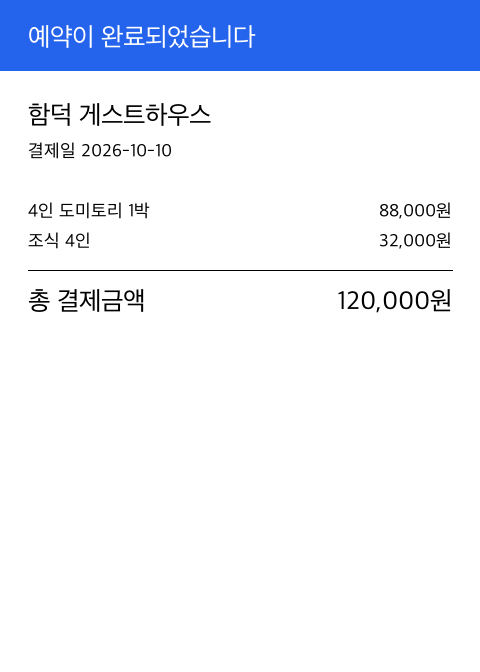
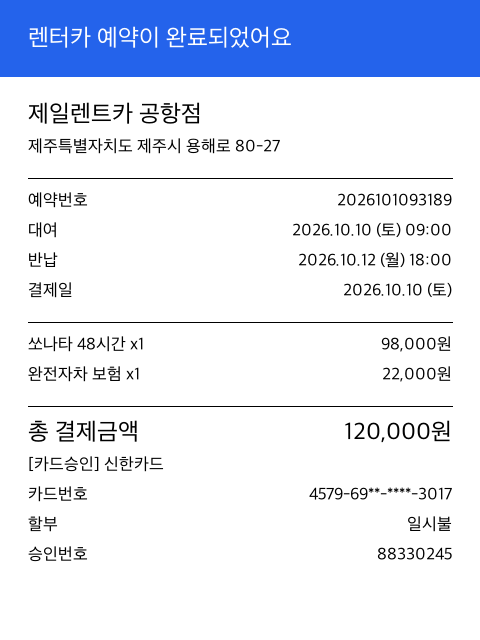
feat: 평가용 생성 영수증을 실제 제주 가게와 결제 시각으로 실제 영수증처럼 다시 만들기
- 2026-10-10~12 제주 2박 3일 동선에 맞춰 카카오 장소 검색으로 찾은 실제 상호·주소·전화번호를 쓴다.
  결제 내역(품목·금액·시각·카드·승인번호)은 지어낸 것이다.
- 영수증: POS 번호, 수량 열, 과세물품가액·부가세, 가린 카드번호, 승인번호, 날짜 표기 3가지.
- 예약 화면: 예약번호, 체크인·체크아웃(렌터카는 대여·반납), 결제일. 숙소 하나는 여행 전에 결제.
- 13곳 모두 카카오 주소 검색으로 좌표를 찾는 것을 확인했다.

diff --git a/eval/make_synthetic.py b/eval/make_synthetic.py
@@ -4,7 +4,9 @@
 """
 
 import argparse
+import hashlib
 import json
+from datetime import datetime, timedelta
 from pathlib import Path
 from typing import Literal
 
@@ -43,80 +45,179 @@ def expected_entry(spec: dict) -> dict:
     }
 
 
+# 줄 앞에 붙여 그리는 방식을 정한다. receipt_lines·booking_lines는 (왼쪽, 오른쪽) 글자 쌍을 돌려준다.
+CENTER = "\x00c"
+BIG = "\x00b"
+RULE = "\x00-"
+QTY = "\t"
+WEEKDAYS = "월화수목금토일"
+CARD_PREFIXES = ["5412", "4579", "9410", "3560"]
+
+
+def vat_split(total: int) -> tuple[int, int]:
+    """부가세 포함 금액을 공급가액과 부가세(10%)로 나눈다."""
+    supply = round(total / 1.1)
+    return supply, total - supply
+
+
+def _seed(spec: dict) -> int:
+    """같은 spec이면 늘 같은 카드번호·승인번호가 나오도록 id로 정한다."""
+    return int(hashlib.sha256(spec["id"].encode()).hexdigest(), 16)
+
+
+def masked_card(spec: dict) -> str:
+    """실제 영수증처럼 가운데를 가린 카드번호. 전체 번호는 만들지 않는다."""
+    seed = _seed(spec)
+    return f"{CARD_PREFIXES[seed % 4]}-{seed // 7 % 100:02d}**-****-{seed // 11 % 10000:04d}"
+
+
+def _approval(spec: dict) -> str:
+    return f"{_seed(spec) // 13 % 100_000_000:08d}"
+
+
+def _paid_text(spec: dict) -> str:
+    """영수증마다 날짜 표기가 다르다. 정답(paid_at)은 같다."""
+    when = datetime.fromisoformat(spec["paid_at"])
+    style = spec.get("time_style", "dash")
+    if style == "slash":
+        return when.strftime("%Y/%m/%d %H:%M:") + f"{_seed(spec) % 60:02d}"
+    if style == "short":
+        return when.strftime("%y.%m.%d") + f"({WEEKDAYS[when.weekday()]}) " + when.strftime("%H:%M")
+    return when.strftime("%Y-%m-%d %H:%M")
+
+
+def _dot_date(value: str) -> str:
+    day = datetime.fromisoformat(value)
+    return day.strftime("%Y.%m.%d") + f" ({WEEKDAYS[day.weekday()]})"
+
+
+def _item_rows(spec: dict) -> list[tuple[str, str]]:
+    """같은 품목은 한 줄로 묶어 수량을 적는다."""
+    grouped: dict[str, list[int]] = {}
+    for item in spec["items"]:
+        grouped.setdefault(item["name"], []).append(item["amount"])
+    return [(f"{name}{QTY}{len(amounts)}", _won(sum(amounts))) for name, amounts in grouped.items()]
+
+
+def _payment_rows(spec: dict) -> list[tuple[str, str]]:
+    return [
+        (f"[카드승인] {spec.get('card', '신한카드')}", ""),
+        ("카드번호", masked_card(spec)),
+        ("할부", "일시불"),
+        ("승인번호", _approval(spec)),
+    ]
+
+
+def receipt_lines(spec: dict) -> list[tuple[str, str]]:
+    seed = _seed(spec)
+    total = expected_total(spec)
+    supply, vat = vat_split(total)
+    lines = [(CENTER + BIG + spec["merchant"], ""), (CENTER + spec["address"], "")]
+    if spec.get("phone"):
+        lines.append((CENTER + f"TEL {spec['phone']}", ""))
+    lines += [
+        (RULE, ""),
+        ("[영수증]", f"POS {seed % 3 + 1:02d}  No.{seed // 17 % 9000 + 1000}"),
+        (_paid_text(spec), ""),
+        (RULE, ""),
+        (f"품명{QTY}수량", "금액"),
+        *_item_rows(spec),
+        (RULE, ""),
+        ("합계", _won(sum(i["amount"] for i in spec["items"]))),
+    ]
+    if spec.get("discount"):
+        lines.append((spec.get("discount_label", "할인"), f"-{_won(spec['discount'])}"))
+    lines += [
+        (BIG + "결제금액", _won(total)),
+        ("  과세물품가액", _won(supply)),
+        ("  부가세", _won(vat)),
+        (RULE, ""),
+        *_payment_rows(spec),
+        (RULE, ""),
+        (CENTER + "이용해 주셔서 감사합니다", ""),
+    ]
+    return lines
+
+
+def booking_lines(spec: dict) -> list[tuple[str, str]]:
+    """예약 앱의 결제 완료 화면. 결제 시각 없이 결제일만 있다."""
+    car = spec.get("booking_type") == "car"
+    start_label, end_label = ("대여", "반납") if car else ("체크인", "체크아웃")
+    start_time, end_time = ("09:00", "18:00") if car else ("15:00", "11:00")
+    # 기간이 없으면 결제일에 시작해 다음 날 끝나는 1박으로 둔다.
+    checkin = spec.get("checkin", spec["paid_at"][:10])
+    checkout = (
+        spec.get("checkout")
+        or (datetime.fromisoformat(checkin) + timedelta(days=1)).date().isoformat()
+    )
+    lines = [
+        (BIG + spec["merchant"], ""),
+        (spec["address"], ""),
+        (RULE, ""),
+        ("예약번호", f"{spec['paid_at'].replace('-', '')}{_seed(spec) % 100000:05d}"),
+        (start_label, f"{_dot_date(checkin)} {start_time}"),
+        (end_label, f"{_dot_date(checkout)} {end_time}"),
+        ("결제일", _dot_date(spec["paid_at"])),
+        (RULE, ""),
+        *[(name.replace(QTY, " x"), amount) for name, amount in _item_rows(spec)],
+    ]
+    if spec.get("discount"):
+        lines.append((spec.get("discount_label", "쿠폰 할인"), f"-{_won(spec['discount'])}"))
+    lines += [(RULE, ""), (BIG + "총 결제금액", _won(expected_total(spec))), *_payment_rows(spec)]
+    return lines
+
+
 def render_receipt(spec: dict, font_path: str) -> Image.Image:
     if spec.get("doc_type") == "booking_capture":
         return _render_booking(spec, font_path)
-    return _render_paper_receipt(spec, font_path)
+    return _draw(receipt_lines(spec), font_path)
 
 
 def _won(amount: int) -> str:
     return f"{amount:,}원"
 
 
-def _canvas(line_count: int) -> tuple[Image.Image, ImageDraw.ImageDraw]:
-    height = max(MARGIN * 2 + line_count * LINE_HEIGHT, int(WIDTH * 1.4))
-    img = Image.new("RGB", (WIDTH, height), "white")
-    return img, ImageDraw.Draw(img)
-
-
-def _row(draw: ImageDraw.ImageDraw, y: int, left: str, right: str, font) -> None:
-    draw.text((MARGIN, y), left, fill=INK, font=font)
-    draw.text((WIDTH - MARGIN, y), right, fill=INK, font=font, anchor="ra")
-
-
-def _render_paper_receipt(spec: dict, font_path: str) -> Image.Image:
-    title = ImageFont.truetype(font_path, 26)
-    body = ImageFont.truetype(font_path, 18)
-    discount = spec.get("discount", 0)
-    img, draw = _canvas(len(spec["items"]) + 12)
-    y = MARGIN
-    draw.text((WIDTH // 2, y), spec["merchant"], fill=INK, font=title, anchor="ma")
-    y += LINE_HEIGHT + 10
-    draw.text((MARGIN, y), spec["address"], fill=INK, font=body)
-    y += LINE_HEIGHT
-    draw.text((MARGIN, y), f"일시 {spec['paid_at'].replace('T', ' ')}", fill=INK, font=body)
-    y += LINE_HEIGHT
-    draw.text((MARGIN, y), "-" * 48, fill=INK, font=body)
-    y += LINE_HEIGHT
-    for item in spec["items"]:
-        _row(draw, y, item["name"], _won(item["amount"]), body)
-        y += LINE_HEIGHT
-    draw.text((MARGIN, y), "-" * 48, fill=INK, font=body)
-    y += LINE_HEIGHT
-    _row(draw, y, "합계", _won(sum(i["amount"] for i in spec["items"])), body)
-    y += LINE_HEIGHT
-    if discount:
-        _row(draw, y, spec.get("discount_label", "할인"), f"-{_won(discount)}", body)
-        y += LINE_HEIGHT
-    _row(draw, y, "결제금액", _won(expected_total(spec)), title)
-    y += LINE_HEIGHT + 10
-    draw.text((MARGIN, y), "카드 결제 / 일시불", fill=INK, font=body)
+def _draw(lines: list[tuple[str, str]], font_path: str, top: int = MARGIN, img=None) -> Image.Image:
+    """종이 영수증처럼 위에서 아래로 줄을 그린다."""
+    big = ImageFont.truetype(font_path, 24)
+    body = ImageFont.truetype(font_path, 17)
+    if img is None:
+        img = Image.new("RGB", (WIDTH, max(top + MARGIN + len(lines) * LINE_HEIGHT, 600)), "white")
+    draw = ImageDraw.Draw(img)
+    y = top
+    for left, right in lines:
+        if left == RULE:
+            draw.line((MARGIN, y + 12, WIDTH - MARGIN, y + 12), fill=INK, width=1)
+            y += LINE_HEIGHT - 6
+            continue
+        centered = left.startswith(CENTER)
+        left = left.removeprefix(CENTER)
+        font = big if left.startswith(BIG) else body
+        left = left.removeprefix(BIG)
+        if centered:
+            draw.text((WIDTH // 2, y), left, fill=INK, font=font, anchor="ma")
+        else:
+            name, _, qty = left.partition(QTY)
+            draw.text((MARGIN, y), name, fill=INK, font=font)
+            if qty:
+                draw.text((int(WIDTH * 0.62), y), qty, fill=INK, font=font, anchor="ra")
+        if right:
+            draw.text((WIDTH - MARGIN, y), right, fill=INK, font=font, anchor="ra")
+        y += LINE_HEIGHT + (6 if font is big else 0)
     return img
 
 
 def _render_booking(spec: dict, font_path: str) -> Image.Image:
-    """숙소 예약 앱의 결제 완료 화면처럼 그린다. 시간 없이 날짜만 있다."""
-    title = ImageFont.truetype(font_path, 26)
-    body = ImageFont.truetype(font_path, 18)
-    img, draw = _canvas(len(spec["items"]) + 10)
-    draw.rectangle((0, 0, WIDTH, 70), fill=BOOKING_ACCENT)
-    draw.text((MARGIN, 22), "예약이 완료되었습니다", fill="white", font=title)
-    y = 100
-    draw.text((MARGIN, y), spec["merchant"], fill=INK, font=title)
-    y += LINE_HEIGHT + 10
-    draw.text((MARGIN, y), f"결제일 {spec['paid_at']}", fill=INK, font=body)
-    y += LINE_HEIGHT * 2
-    for item in spec["items"]:
-        _row(draw, y, item["name"], _won(item["amount"]), body)
-        y += LINE_HEIGHT
-    if spec.get("discount"):
-        _row(draw, y, spec.get("discount_label", "쿠폰 할인"), f"-{_won(spec['discount'])}", body)
-        y += LINE_HEIGHT
-    y += 10
-    draw.line((MARGIN, y, WIDTH - MARGIN, y), fill=INK)
-    y += 16
-    _row(draw, y, "총 결제금액", _won(expected_total(spec)), title)
-    return img
+    """예약 앱의 결제 완료 화면처럼 그린다. 상단 색 띠와 완료 문구를 둔다."""
+    lines = booking_lines(spec)
+    img = Image.new("RGB", (WIDTH, max(110 + MARGIN + len(lines) * LINE_HEIGHT, 640)), "white")
+    draw = ImageDraw.Draw(img)
+    draw.rectangle((0, 0, WIDTH, 76), fill=BOOKING_ACCENT)
+    title = (
+        "렌터카 예약이 완료되었어요" if spec.get("booking_type") == "car" else "예약이 확정되었어요"
+    )
+    draw.text((MARGIN, 24), title, fill="white", font=ImageFont.truetype(font_path, 24))
+    return _draw(lines, font_path, top=100, img=img)
 
 
 def apply_variant(img: Image.Image, variant: Variant) -> Image.Image:

diff --git a/tests/test_make_synthetic.py b/tests/test_make_synthetic.py
@@ -81,3 +81,71 @@ def test_regenerate_replaces_old_synthetic_entries(tmp_path, korean_font):
         "paid_at": "2026-10-11T15:02",
         "total_amount": 9000,
     }
+
+
+REAL_SPEC = SPEC | {
+    "merchant": "인디고인디드",
+    "phone": "064-799-1218",
+    "card": "신한카드",
+}
+
+
+def _text(lines: list[tuple[str, str]]) -> str:
+    return "\n".join(f"{left} {right}" for left, right in lines)
+
+
+def test_receipt_lines_look_like_a_real_receipt():
+    from eval.make_synthetic import receipt_lines
+
+    text = _text(receipt_lines(REAL_SPEC))
+    assert "인디고인디드" in text and "064-799-1218" in text
+    assert "승인번호" in text and "신한카드" in text and "결제금액" in text
+
+
+def test_receipt_card_number_is_masked():
+    import re
+
+    from eval.make_synthetic import receipt_lines
+
+    text = _text(receipt_lines(REAL_SPEC))
+    card = re.search(r"\d{4}-[\d*]{4}-[\d*]{4}-\d{4}", text)
+    assert card and "*" in card.group(0)
+    assert not re.search(r"\d{16}|\d{4}-\d{4}-\d{4}-\d{4}", text)
+
+
+def test_receipt_vat_adds_up_to_total():
+    from eval.make_synthetic import vat_split
+
+    supply, vat = vat_split(9000)
+    assert supply + vat == 9000 and supply == 8182
+
+
+def test_receipt_lines_are_stable_for_same_spec():
+    from eval.make_synthetic import receipt_lines
+
+    assert receipt_lines(REAL_SPEC) == receipt_lines(REAL_SPEC)
+
+
+def test_receipt_groups_repeated_items_by_quantity():
+    from eval.make_synthetic import receipt_lines
+
+    spec = REAL_SPEC | {"items": [{"name": "고기국수", "amount": 9000}] * 2, "discount": 0}
+    rows = [left for left, _ in receipt_lines(spec)]
+    assert sum("고기국수" in r for r in rows) == 1 and any(
+        "2" in r for r in rows if "고기국수" in r
+    )
+
+
+def test_booking_lines_have_reservation_details():
+    from eval.make_synthetic import booking_lines
+
+    spec = REAL_SPEC | {
+        "doc_type": "booking_capture",
+        "merchant": "호텔더본 제주",
+        "paid_at": "2026-10-11",
+        "checkin": "2026-10-11",
+        "checkout": "2026-10-12",
+    }
+    text = _text(booking_lines(spec))
+    assert "호텔더본 제주" in text and "예약번호" in text and "체크인" in text
+    assert "2026.10.11" in text

diff --git a/eval/LABELING.md b/eval/LABELING.md
@@ -50,3 +50,15 @@
 
 - 실물: `eval/images/real/r01.jpg`, `r02.jpg`, …
 - 생성: `eval/images/synthetic/s01.png`, `s02.png`, …
+
+## 생성 이미지(synthetic)에 대해
+
+- 2026-10-10(토)~10-12(월) 제주 2박 3일 동선에 맞춰 13장을 만든다. 정의는 `eval/synthetic_specs.json`에 있다.
+- 상호·주소·전화번호는 카카오 장소 검색으로 찾은 실제 가게 정보다. 경로 지도가 실제 위치를 찍는지 확인하기 위해서다.
+- 결제 내역(품목, 금액, 시각, 카드, 승인번호)은 모두 지어낸 것이다. 그 가게에서 실제로 결제한 기록이 아니다.
+- 카드번호는 가운데를 가린 형태(`4579-50**-****-2041`)로만 만든다. 전체 카드번호는 만들지 않는다.
+- 실제 영수증처럼 날짜 표기를 섞었다(`2026-10-10 12:31`, `2026/10/11 19:20:07`, `26.10.10(토) 18:05`). 정답 `paid_at`은 표기와 관계없이 같은 형식이다.
+- 까다로운 경우를 일부러 넣었다.
+  - 숙소 예약을 여행 전에 결제한 경우: `s01`, 결제일 2026-09-28
+  - 예약 화면에 체크인 시각은 있지만 결제 시각은 없는 경우: `s01`~`s03`
+  - 흐린 사진(`s06`), 기울어진 사진(`s07`), 어두운 사진(`s09`)
